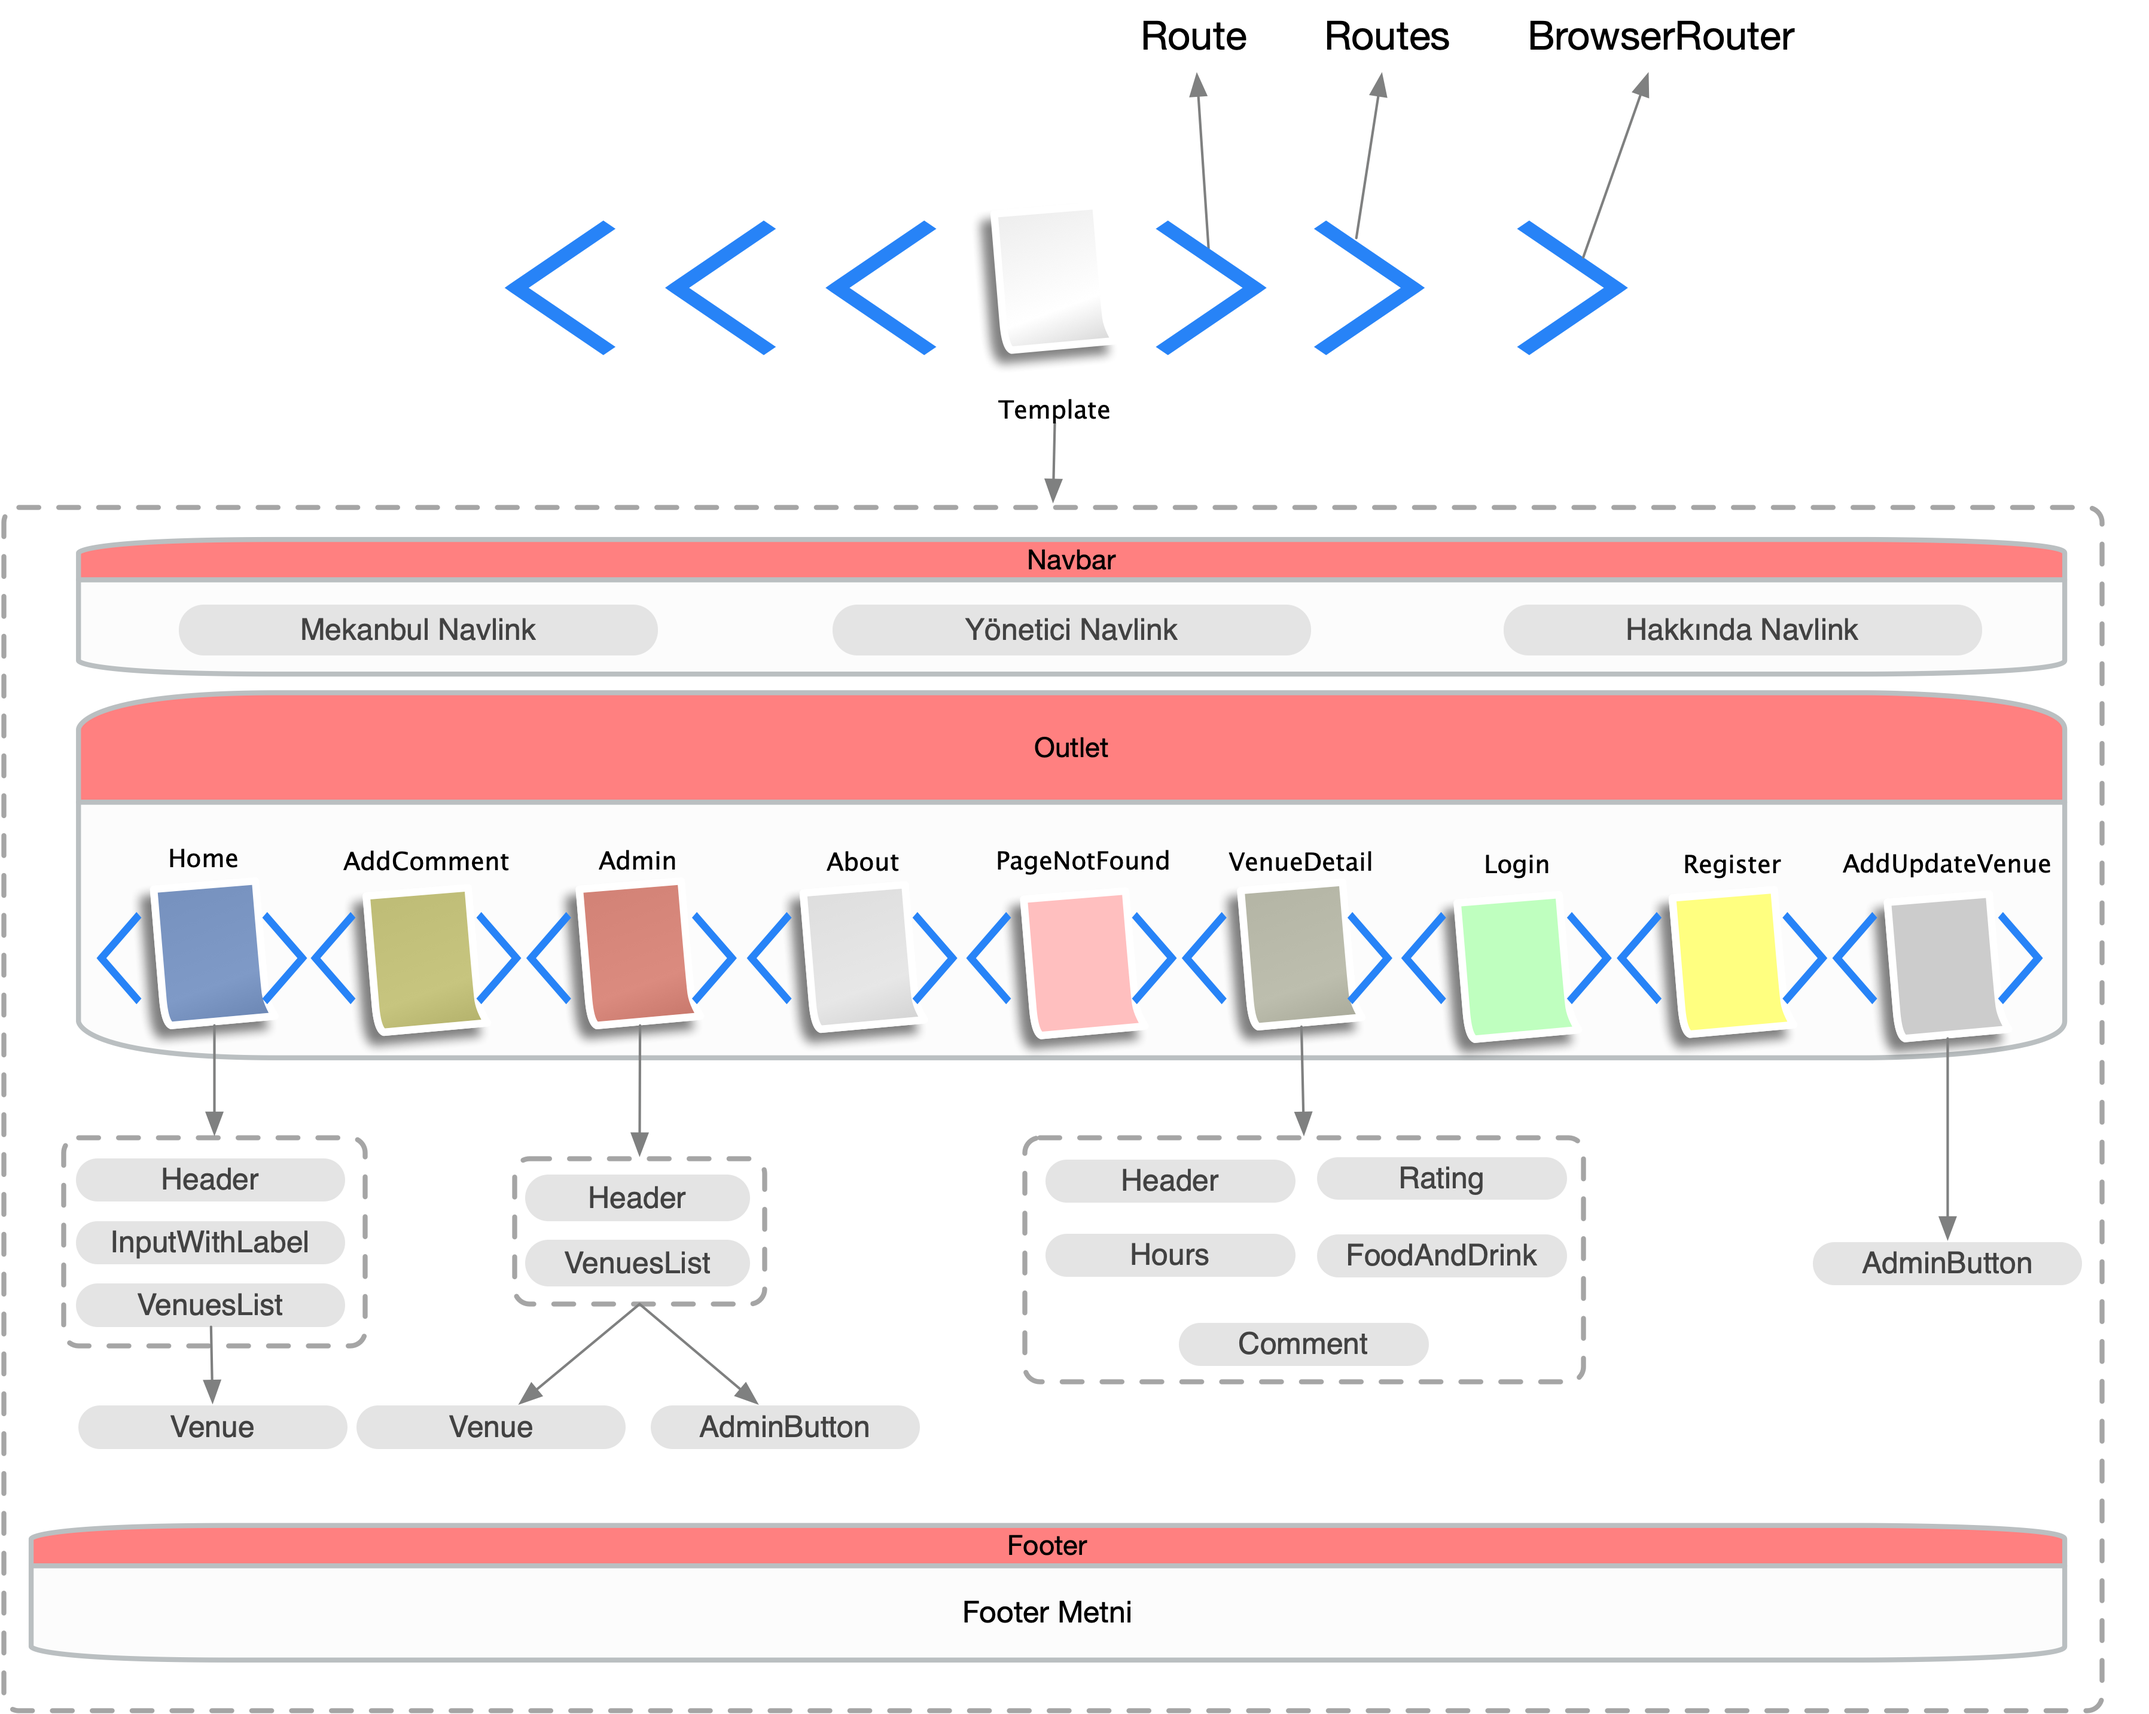
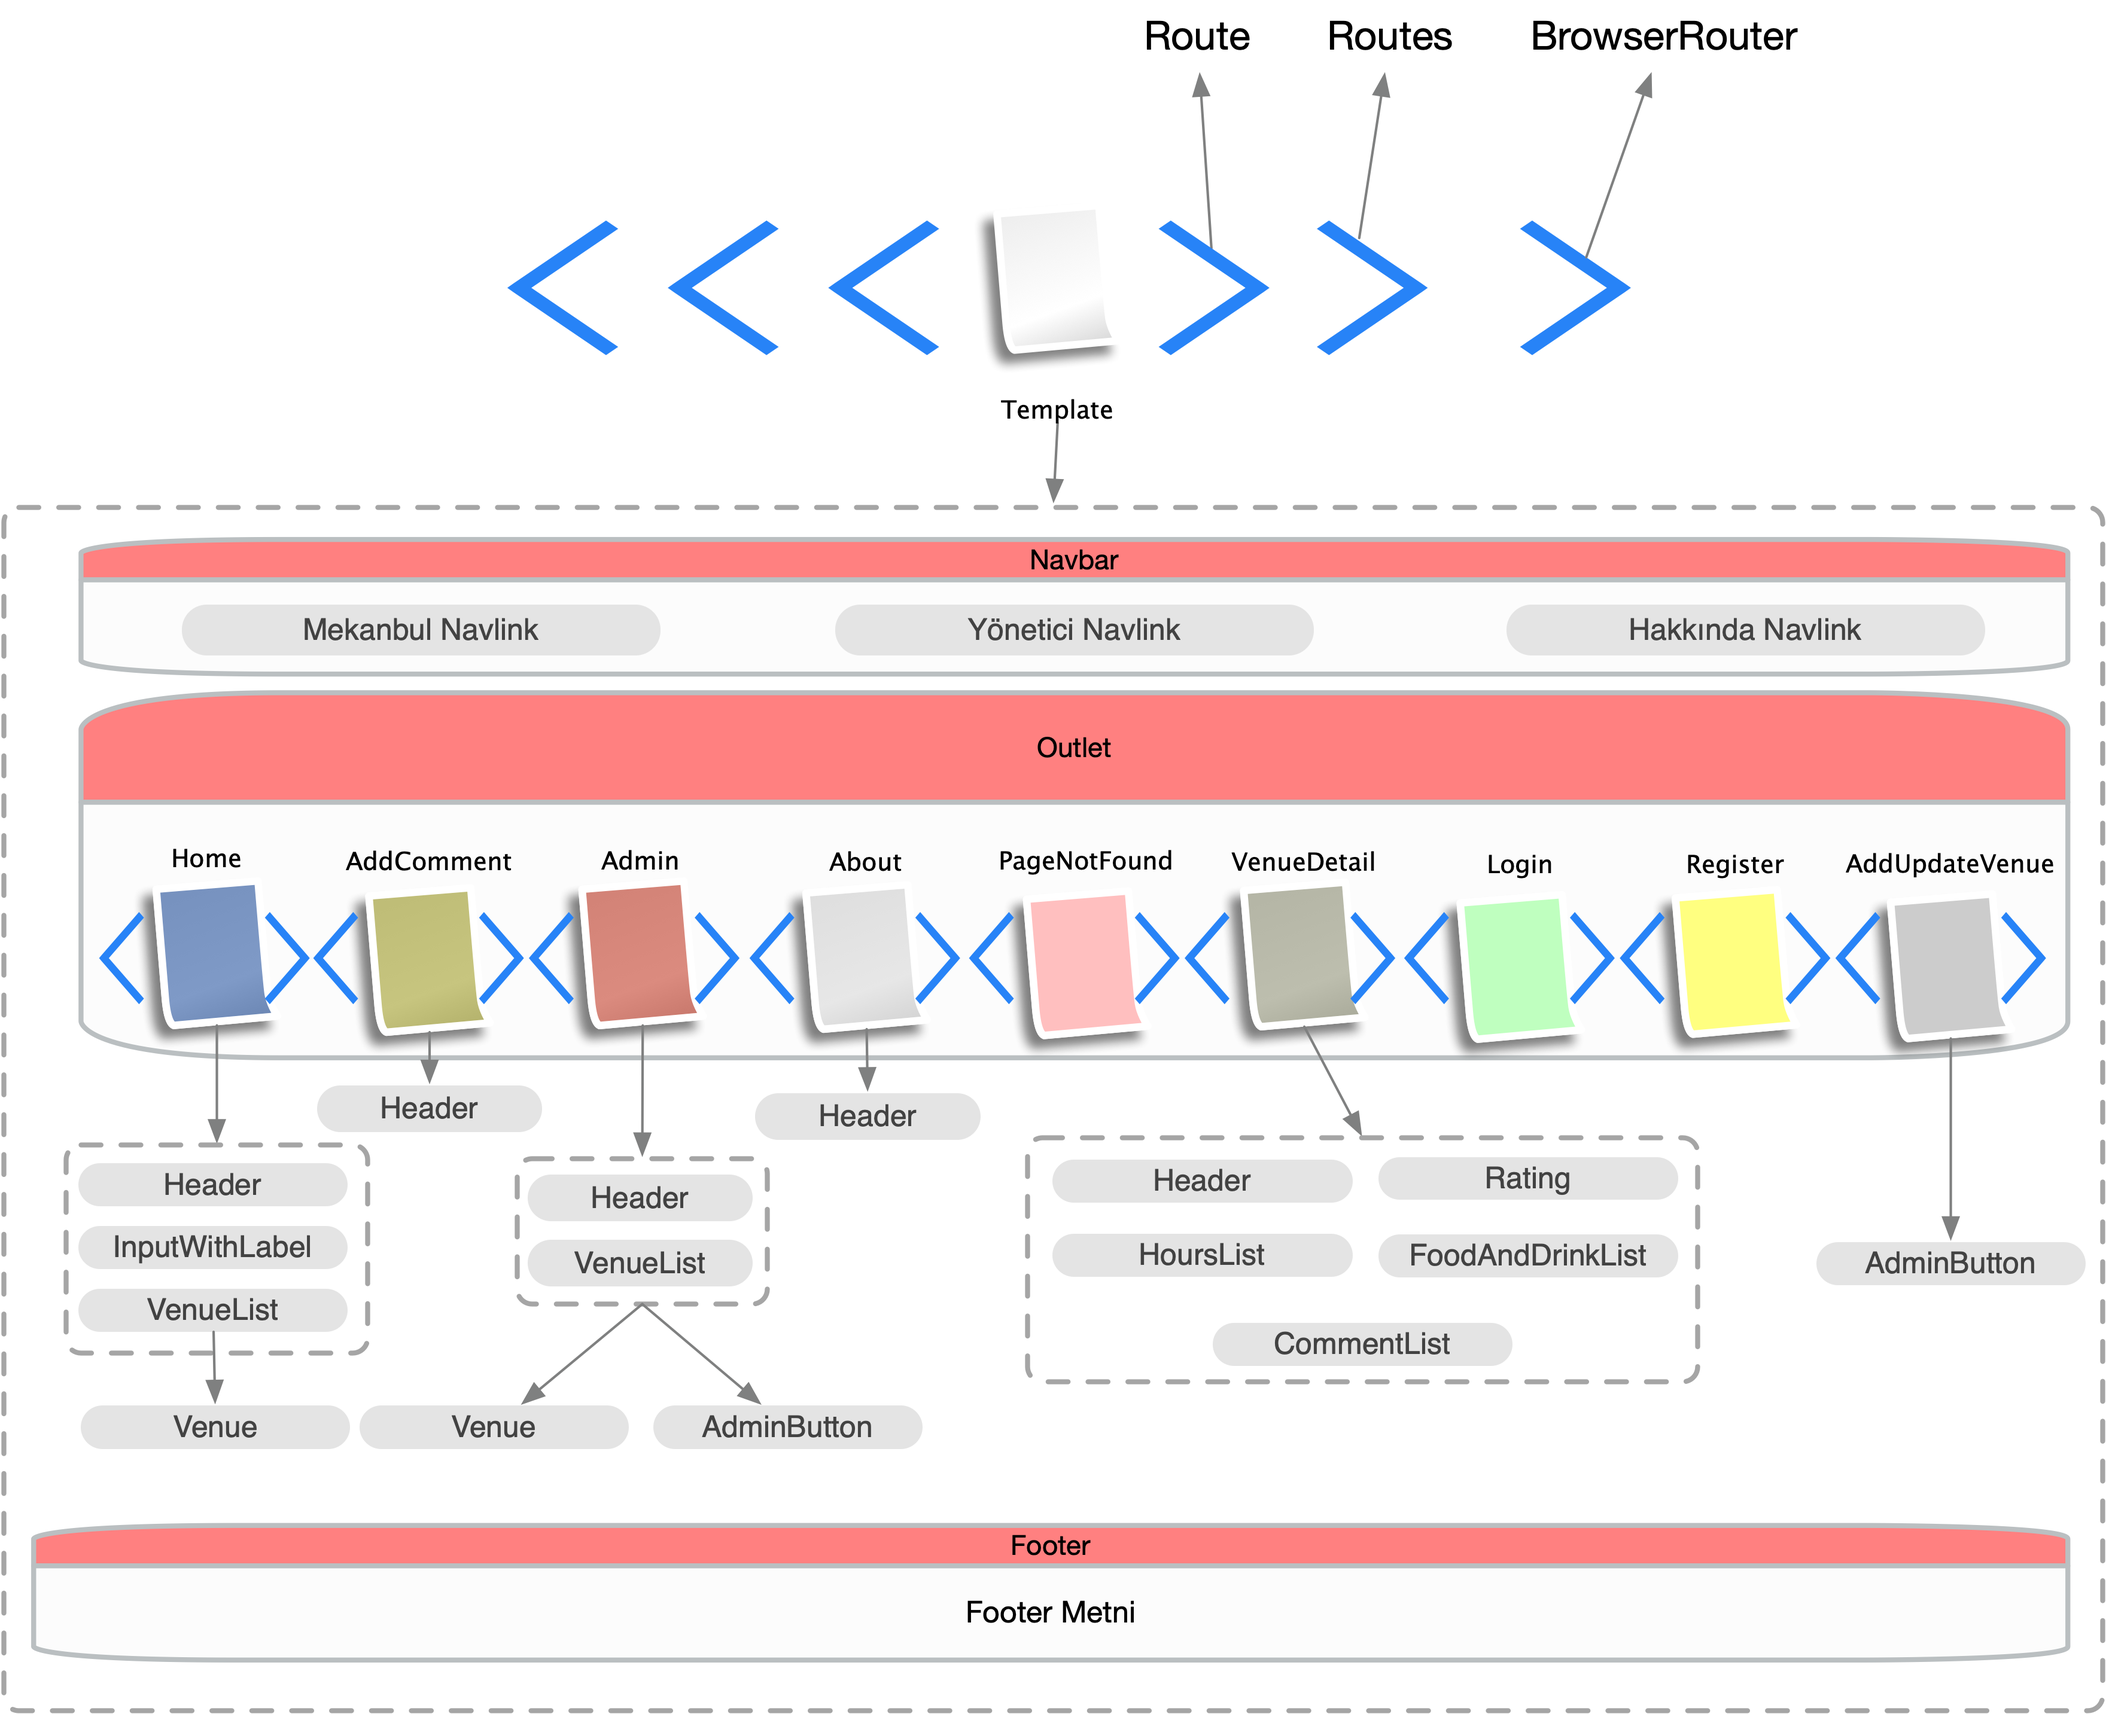
update and fix

diff --git a/src/components/Home.jsx b/src/components/Home.jsx
@@ -1,62 +1,47 @@
 import InputWithLabel from "./InputWithLabel";
-import VenuesList from "./VenuesList";
-import venueReducer from "../services/VenueReducer";
+import VenueList from "./VenueList";
+import VenueReducer from "../services/VenueReducer";
+import Header from "./Header";
 import React from "react";
 const useCookies = (key, defaultValue) => {
-  const [value, setValue] = React.useState(
+  const [cookie, setCookie] = React.useState(
     localStorage.getItem(key) || defaultValue
   );
   React.useEffect(() => {
-    localStorage.setItem(key, value);
-  }, [value, key]);
-  return [value, setValue];
+    localStorage.setItem(key, cookie);
+  }, [cookie, key]);
+  return [cookie, setCookie];
 };
 
 const Home = () => {
-  const [searchVenue, setSearchMenu] = useCookies("searchVenue", "");
-  const [venues, setVenues] = React.useReducer(venueReducer, {
+  const [searchVenue, setSearchVenue] = useCookies("searchVenue", "");
+  const [venues, setVenues] = React.useReducer(VenueReducer, {
     data: [],
     isLoading: false,
     isSuccess: false,
     isError: false,
   });
-  const [coordinate, setCoordinate] = React.useState({ lat: 0, long: 0 });
-  React.useEffect(() => {
-    if ("geolocation" in navigator) {
-      navigator.geolocation.getCurrentPosition(function (position) {
-        setCoordinate({
-          lat: position.coords.latitude,
-          long: position.coords.longitude,
-        });
-      });
-    }
-  }, []);
   const search = (event) => {
-    setSearchMenu(event.target.value);
+    setSearchVenue(event.target.value);
   };
-  const filteredVenue = venues.data.filter(
+  const filteredVenues = venues.data.filter(
     (venue) =>
       venue.name.toLowerCase().includes(searchVenue.toLowerCase()) ||
       venue.address.toLowerCase().includes(searchVenue.toLowerCase())
   );
   return (
     <div>
-      <div className="page-header">
-        <div className="row">
-          <div className="col-lg-6">
-            <h1>
-              Mekanbul <small>Civardaki mekanları Keşfedin!</small>
-            </h1>
-          </div>
-        </div>
-      </div>
+      <Header
+        headerText="Mekanbul"
+        motto="Civarınızdaki Mekanlarınızı Keşfedin!"
+      />
       <InputWithLabel
         id="arama"
-        etiket="Mekan Ara:"
-        tur="text"
+        label="Mekan Ara:"
+        typ="text"
         isFocused
-        onDegerDegisim={search}
-        deger={searchVenue}
+        onInputChange={search}
+        value={searchVenue}
       />
       <hr />
       {venues.isError && (
@@ -70,7 +55,7 @@ const Home = () => {
         </p>
       ) : (
         <div className="row">
-          <VenuesList venues={filteredVenue} admin={false} />
+          <VenueList venues={filteredVenues} admin={false} />
         </div>
       )}
     </div>

diff --git a/src/components/VenueDetail.jsx b/src/components/VenueDetail.jsx
@@ -1,13 +1,14 @@
 import { NavLink } from "react-router-dom";
 import { useParams } from "react-router-dom";
 import Rating from "./Rating";
-import FoodAndDrink from "./FoodAndDrink";
+import FoodAndDrinkList from "./FoodAndDrinkList";
 import Header from "./Header";
-import Hours from "./Hours";
-import Comment from "./Comment";
-import venueReducer from "../services/VenueReducer";
+import HourList from "./HourList";
+import CommentList from "./CommentList";
+import VenueReducer from "../services/VenueReducer";
+import React from "react";
 const VenueDetail = () => {
-  const [venue, dispatchVenue] = React.useReducer(venueReducer, {
+  const [venue, dispatchVenue] = React.useReducer(VenueReducer, {
     data: {},
     isLoading: false,
     isSuccess: false,
@@ -32,7 +33,7 @@ const VenueDetail = () => {
                     </div>
                     <div className="panel-body ">
                       {venue.isSuccess ? (
-                        <Hours saatler={venue.data.hours} />
+                        <HourList saatler={venue.data.hours} />
                       ) : (
                         ""
                       )}
@@ -44,7 +45,7 @@ const VenueDetail = () => {
                     </div>
                     <div className="panel-body ">
                       {venue.isSuccess ? (
-                        <FoodAndDrink foodAndDrinkList={venue.data.foodAndDrinkList} />
+                        <FoodAndDrinkList foodAndDrinkList={venue.data.foodAndDrinkList} />
                       ) : (
                         ""
                       )}
@@ -82,7 +83,7 @@ const VenueDetail = () => {
                   </div>
                   <div className="panel-body ">
                     {venue.isSuccess ? (
-                      <Comment commentList={venue.data.commentList} />
+                      <CommentList commentList={venue.data.commentList} />
                     ) : (
                       ""
                     )}

diff --git a/src/components/Venue.jsx b/src/components/Venue.jsx
@@ -1,23 +1,11 @@
 import { NavLink } from "react-router-dom";
 import Rating from "./Rating";
-import FoodAndDrink from "./FoodAndDrink";
+import FoodAndDrinkList from "./FoodAndDrinkList";
 import AdminButton from "./AdminButton";
 import { useNavigate } from "react-router-dom";
+import {formatDistance} from "../services/Utils";
 const Venue = ({ venue, admin }) => {
-  var navigate = useNavigate();
   const performClick= (evt) => {
-  };
-
-  var formatDistance = function (distance) {
-    var newDistance, unit;
-    if (distance > 1) {
-      newDistance = parseFloat(distance).toFixed(1);
-      unit = " km";
-    } else {
-      newDistance = parseInt(distance * 1000, 10);
-      unit = " m";
-    }
-    return newDistance + unit;
   };
   return (
     <div className="list-group">
@@ -36,7 +24,7 @@ const Venue = ({ venue, admin }) => {
           {admin ? (<AdminButton tur="info" ad="Güncelle" onClick={performClick}/>):""}
           <p className="address"> {venue.address}</p>
           <p>
-            <FoodAndDrink foodandDrinkList={venue.foodAndDrink} />
+            <FoodAndDrinkList foodandDrinkList={venue.foodAndDrink} />
           </p>
          
         </div>

diff --git a/src/components/AddComment.jsx b/src/components/AddComment.jsx
@@ -1,9 +1,15 @@
 import { useParams } from "react-router-dom";
 import { useLocation,useNavigate } from "react-router-dom";
+import VenueReducer from "../services/VenueReducer";
+import Header from "./Header";
+import React from "react";
 function AddComment() {
   const { id } = useParams();
   var navigate=useNavigate();
-  let location = useLocation();
+  const [comment, dispatchComment] = React.useReducer(VenueReducer, {
+    user: {},
+    isSuccess:false
+  });
   const onSubmit = (evt) => {
   
   };
@@ -11,12 +17,11 @@ function AddComment() {
     return navigate(`/venue/${id}`);
   } else
   return (
-    <div>
-        <div className="row page-header">
-          <div className="col-lg-12 ">
-            <h1> {location.state.name} mekanına yorum yap</h1>
-          </div>
-        </div>
+    <>
+       <Header
+        headerText={"Mekan"}
+        motto=" mekanına yorum yap"
+      />
         <div className="row">
           <div className="col-xs-12 col-md-6">
             <form
@@ -68,7 +73,7 @@ function AddComment() {
             </form>
           </div>
         </div>
-    </div>
+    </>
   );
 }
 export default AddComment;

diff --git a/src/components/VenueList.jsx b/src/components/VenueList.jsx
@@ -1,11 +1,11 @@
 import { useNavigate } from "react-router-dom";
 import Venue from "./Venue";
 import AdminButton from "./AdminButton";
-const VenuesList = ({ venues, admin }) => {
+const VenueList = ({ venues, admin }) => {
   var navigate = useNavigate();
   const performClick = (evt) => {
     if (evt.target.name === "Mekan Ekle") {
-      return navigate("/admin/managevenue");
+      return navigate("/admin/addupdate");
     }
   };
   return (
@@ -19,8 +19,8 @@ const VenuesList = ({ venues, admin }) => {
           <div className="row">
             <div className="column pull-right">
               <AdminButton
-                ad="Mekan Ekle"
-                tur="success"
+                name="Mekan Ekle"
+                type="success"
                 onClick={performClick}
               />
             </div>
@@ -32,4 +32,4 @@ const VenuesList = ({ venues, admin }) => {
     </div>
   );
 };
-export default VenuesList;
+export default VenueList;

diff --git a/src/components/CommentList.jsx b/src/components/CommentList.jsx
@@ -1,14 +1,6 @@
 import Rating from "./Rating";
-const Comment = ({ commentList }) => {
- var formatDate=function(date){
-    var date = new Date(date);
-    var months= [ "Ocak", "Şubat", "Mart", "Nisan", "Mayıs","Haziran","Temmuz", "Ağustos","Eylül","Ekim","Kasım", "Aralık" ];
-    var dateInfo = date.getDate();
-    var monthInfo = months[date.getMonth()];
-    var yearInfo = date.getFullYear();
-    var result=dateInfo + ' ' + monthInfo + ' ' + yearInfo;
-    return result
-  }
+import {formatDate} from "../services/Utils";
+const CommentList = ({ commentList }) => {
       return commentList.map((comment, index) => (
           <div key={index} className="row">
             <div className="review">
@@ -24,5 +16,5 @@ const Comment = ({ commentList }) => {
           </div>
       ));
     }
-  export default Comment;
+  export default CommentList;
   

diff --git a/src/services/Utils.jsx b/src/services/Utils.jsx
@@ -1,0 +1,21 @@
+export function formatDate(date){
+    var date = new Date(date);
+    var months= [ "Ocak", "Şubat", "Mart", "Nisan", "Mayıs","Haziran","Temmuz", "Ağustos","Eylül","Ekim","Kasım", "Aralık" ];
+    var dateInfo = date.getDate();
+    var monthInfo = months[date.getMonth()];
+    var yearInfo = date.getFullYear();
+    var result=dateInfo + ' ' + monthInfo + ' ' + yearInfo;
+    return result
+  }
+
+export function formatDistance(distance) {
+    var newDistance, unit;
+    if (distance > 1) {
+      newDistance = parseFloat(distance).toFixed(1);
+      unit = " km";
+    } else {
+      newDistance = parseInt(distance * 1000, 10);
+      unit = " m";
+    }
+    return newDistance + unit;
+  };

diff --git a/src/components/PageNotFound.jsx b/src/components/PageNotFound.jsx
@@ -1,12 +1,9 @@
-function PageNotFound(){
+import Header from "./Header";
+function PageNotFound() {
   return (
     <div>
-      <div className="row page-header">
-        <div className="col-lg-12 ">
-          <h1>Sayfa Bulunamadı</h1>
-        </div>
-      </div>
+      <Header headerText="Hata" motto="Sayfa Bulunamadı!" />
     </div>
   );
 }
-  export default PageNotFound;
+export default PageNotFound;

diff --git a/src/components/About.jsx b/src/components/About.jsx
@@ -1,11 +1,11 @@
+import Header from "./Header";
 function About() {
   return (
     <div>
-      <div className="row page-header">
-        <div className="col-lg-12 ">
-          <h1>Mekanbul ReactJS Single Page Application (SPA) Uygulaması</h1>
-        </div>
-      </div>
+      <Header
+        headerText="Mekanbul"
+        motto="ReactJS Single Page Application (SPA)"
+      />
     </div>
   );
 }

diff --git a/src/components/Admin.jsx b/src/components/Admin.jsx
@@ -1,10 +1,13 @@
+import Header from "./Header";
 function Admin() {
-    return (
-      <>
-          <h1>Yönetici</h1>
-      </>
-    );
-  }
-  
-  export default Admin;
-  
+  return (
+    <>
+      <Header
+        headerText="Yönetici"
+        motto="Mekanlarınızı Yönetin!"
+      />
+    </>
+  );
+}
+
+export default Admin;

diff --git a/src/components/FoodAndDrinkList.jsx b/src/components/FoodAndDrinkList.jsx
@@ -1,0 +1,10 @@
+const FoodAndDrinkList = ({ fdl }) => {
+  return fdl.map((fan, index) => (
+    <span key={index}>
+      <span className="label label-warning"> {fan}</span>
+      &nbsp;
+    </span>
+  ));
+};
+
+export default FoodAndDrinkList;

diff --git a/src/components/HourList.jsx b/src/components/HourList.jsx
@@ -1,0 +1,9 @@
+const HourList = ({ hourList }) => {
+  return hoursList.map((hour, index) => (
+    <p key={index}>
+      {hour.days}: {hour.open}-{hour.close}
+    </p>
+  ));
+};
+
+export default HourList;
